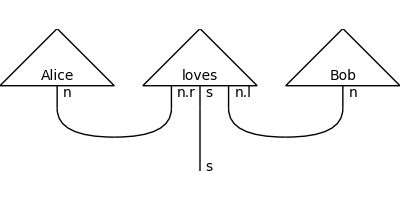
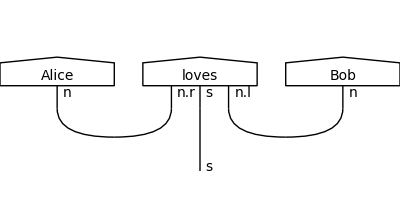
draw extended ket by default

diff --git a/discopy/drawing.py b/discopy/drawing.py
@@ -696,7 +696,7 @@ def pregroup_draw(words, layers, **params):
     textpad = params.get('textpad', (.1, .2))
     textpad_words = params.get('textpad_words', (0, .1))
     space = params.get('space', .5)
-    width = params.get('width', 3. if has_swaps else 2)
+    width = params.get('width', 2.)
     fontsize = params.get('fontsize', None)
 
     backend = TikzBackend(use_tikzstyles=params.get('use_tikzstyles', None))\
@@ -709,7 +709,7 @@ def pregroup_draw(words, layers, **params):
             type_str += "^{" + 'l' * -t.z + 'r' * t.z + "}"
         return f'${type_str}$'
 
-    def draw_triangles(words):
+    def draw_words(words):
         scan = []
         for i, word in enumerate(words.boxes):
             for j, _ in enumerate(word.cod):
@@ -726,11 +726,20 @@ def pregroup_draw(words, layers, **params):
                         fontsize=params.get('fontsize_types', fontsize),
                         horizontalalignment='left')
                     backend.draw_wire((x_wire, 0), (x_wire, -2 * textpad[1]))
-            backend.draw_polygon(
-                ((space + width) * i, 0),
-                ((space + width) * i + width, 0),
-                ((space + width) * i + width / 2, 1),
-                color=DEFAULT["color"])
+            if params.get('triangles', False):
+                backend.draw_polygon(
+                    ((space + width) * i, 0),
+                    ((space + width) * i + width, 0),
+                    ((space + width) * i + width / 2, 1),
+                    color=DEFAULT["color"])
+            else:
+                backend.draw_polygon(
+                    ((space + width) * i, 0),
+                    ((space + width) * i + width, 0),
+                    ((space + width) * i + width, 0.4),
+                    ((space + width) * i + width / 2, 0.5),
+                    ((space + width) * i, 0.4),
+                    color=DEFAULT["color"])
             backend.draw_text(
                 str(word), (space + width) * i + width / 2 + textpad_words[0],
                 textpad_words[1], ha='center', fontsize=fontsize)
@@ -792,7 +801,7 @@ def pregroup_draw(words, layers, **params):
                     fontsize=params.get('fontsize_types', fontsize),
                     horizontalalignment='left')
 
-    scan = draw_triangles(words.normal_form())
+    scan = draw_words(words.normal_form())
     draw_grammar(layers, scan)
     backend.output(
         params.get('path', None),

diff --git a/discopy/grammar/pregroup.py b/discopy/grammar/pregroup.py
@@ -112,8 +112,6 @@ def draw(diagram, **params):
         Padding between text and wires, default is :code:`(0.1, 0.2)`.
     draw_type_labels : bool, optional
         Whether to draw type labels, default is :code:`True`.
-    pretty_labels : bool, optional
-        Whether to draw type labels with superscript, default is :code:`False`.
     aspect : string, optional
         Aspect ratio, one of :code:`['equal', 'auto']`.
     margins : tuple, optional
@@ -126,6 +124,10 @@ def draw(diagram, **params):
         Figure size.
     path : str, optional
         Where to save the image, if :code:`None` we call :code:`plt.show()`.
+    pretty_types : bool, optional
+        Whether to draw type labels with superscript, default is :code:`False`.
+    triangles : bool, optional
+        Whether to draw words as triangular states, default is :code:`False`.
 
     Raises
     ------

diff --git a/test/test_drawing.py b/test/test_drawing.py
@@ -113,7 +113,8 @@ def test_pregroup_draw():
     return Alice @ loves @ Bob >> Cup(n, n.r) @ Id(s) @ Cup(n.l, n)
 
 
-@draw_and_compare('gave-up.png', draw=grammar.draw, pretty_types=True)
+@draw_and_compare(
+    'gave-up.png', draw=grammar.draw, pretty_types=True, triangles=True)
 def test_cross_composition_draw():
     s, n = Ty('s'), Ty('n')
     gave, up = Word('gave', n.r @ s @ n.l), Word('up', s.r @ n.r.r @ n.r @ s)
